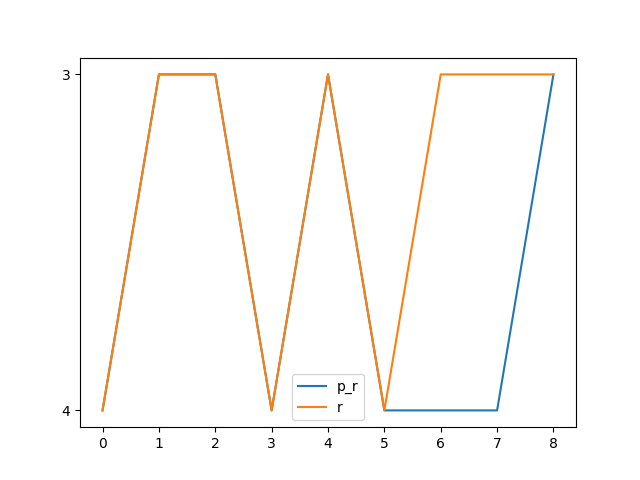
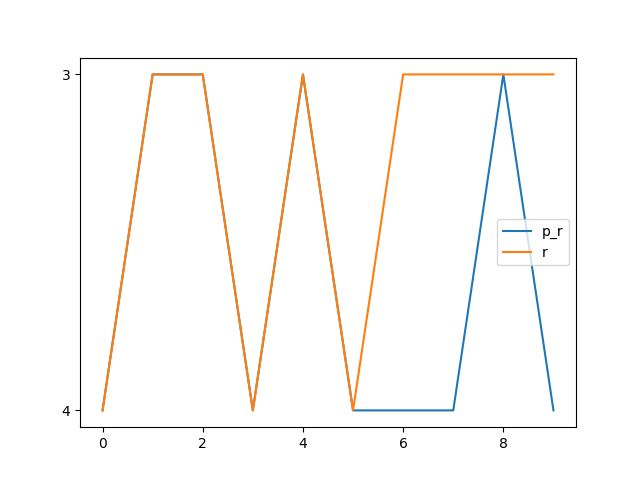
0x0009

diff --git a/benchmark.md b/benchmark.md
@@ -18,6 +18,8 @@ Synthesising 0x0007 pexact:182 r=4 exact:192 r=3
 
 Synthesising 0x0008 pexact:152 r=3 exact:192 r=3
 
+Synthesising 0x0009 pexact:208 r=4 exact:224 r=3
+
 <img src=benchmark_r.png? width=400 heigth=400>
 
 <img src=benchmark_s.png? width=400 heigth=400>
